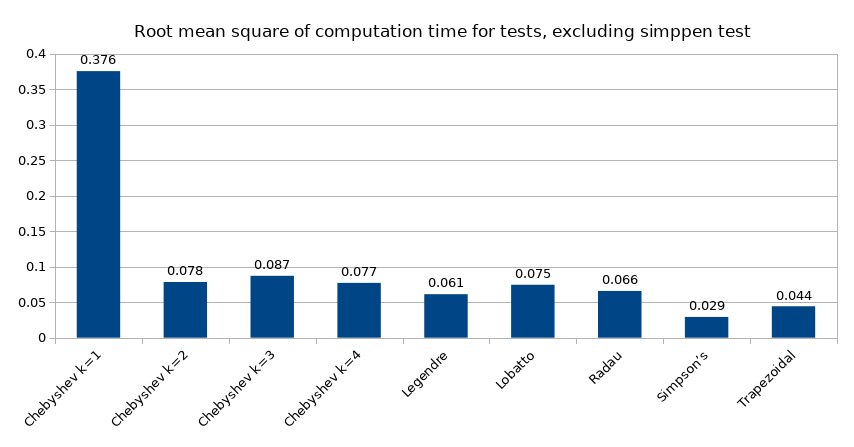
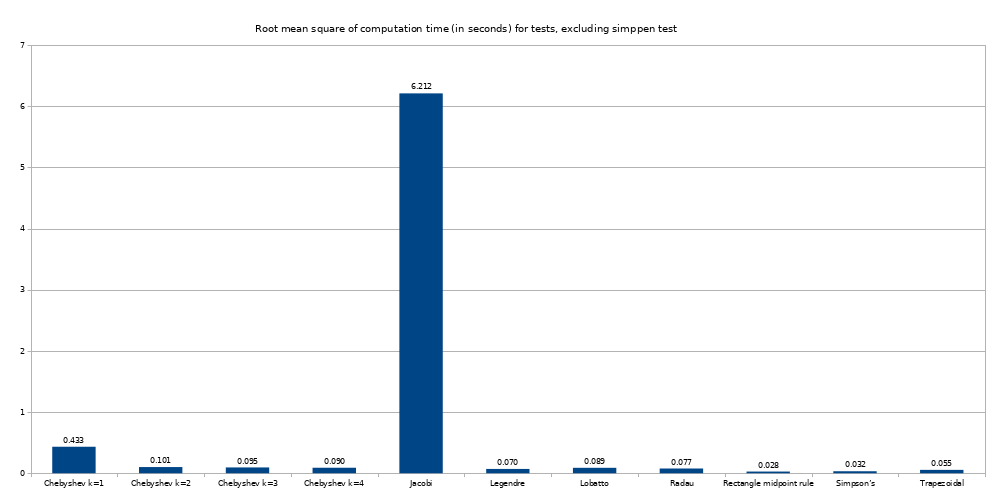
Updating to include the results of the latest Travis tests

Changed region(s): [[0.0, 0.0291, 0.9742, 0.9888], [0.8525, 0.8725, 0.8829, 0.9016]]

diff --git a/FunctionIntegrator.md b/FunctionIntegrator.md
@@ -62,13 +62,13 @@ The [test/](https://github.com/fusion809/FunctionIntegrator.jl/tree/master/test/
 | `lobatto_quadrature`   | $[a,b]$~~~<br/>~~~$x\in[-1,1]$ | 1 | `f`, the function being integrated.~~~<br/>~~~`N`, the number of grid points.~~~<br/>~~~`a`, the start of the domain of integration.~~~<br/>~~~`b`, the end of the domain of integration. | Uses [Gauss-Lobatto quadrature](https://en.wikipedia.org/wiki/Gaussian_quadrature#Gauss%E2%80%93Lobatto_rules). This function includes, in the calculation, the values of the integrand at one of the endpoints. Consequently, if there are unremovable singularities at the endpoints, this function may fail to give an accurate result even if you adjust the endpoints slightly to avoid the singularities. |
 | `radau_quadrature`     | $[a,b]$~~~<br/>~~~$x\in[-1,1]$ | 1 | `f`, the function being integrated.~~~<br/>~~~`N`, the number of grid points.~~~<br/>~~~`a`, the start of the domain of integration.~~~<br/>~~~`b`, the end of the domain of integration. | Uses Gauss–Radau quadrature, for which there is no Wikipedia article, the best article (simplest) I could find on it are [these lecture notes](https://web.archive.org/web/20200628202423/http://www.math.hkbu.edu.hk/ICM/LecturesAndSeminars/08OctMaterials/2/Slide3.pdf). This function includes, in the calculation, the values of the function at the endpoints. Consequently, if there are unremovable singularities at either or both of the endpoints, this function will fail to give an accurate result even if you adjust the endpoints slightly to avoid the singularities. |
 | `rectangle_rule_left`  | $[a,b]$ | N/A | `f`, the function being integrated.~~~<br/>~~~`N`. $N$ is the number of grid points used in the integration.~~~<br/>~~~`a`, the start of the domain of integration.~~~<br/>~~~`b`, the end of the domain of integration. | Uses the rectangle rule, specifically the [left Riemann sum](https://en.wikipedia.org/wiki/Riemann_sum#Left_Riemann_sum). Usually this or `rectangle_rule_right` is the least accurate method. In fact, many of the tests in the FunctionIntegrator.jl repository fail to get accuracy to 7 significant figures with `rectangle_rule_left` with any practically viable value of `N`. |
-| `rectangle_rule_midpoint`  | $[a,b]$ | N/A | `f`, the function being integrated.~~~<br/>~~~`N`. $N$ is the number of grid points used in the integration.~~~<br/>~~~`a`, the start of the domain of integration.~~~<br/>~~~`b`, the end of the domain of integration. | Uses the rectangle rule, specifically the [Riemann midpoint rule](https://en.wikipedia.org/wiki/Riemann_sum#Midpoint_rule). Usually this is more accurate than `rectangle_rule_left` and `rectangle_rule_right` and sometimes rivals `trapezoidal_rule` for accuracy. |
+| `rectangle_rule_midpoint`  | $[a,b]$ | N/A | `f`, the function being integrated.~~~<br/>~~~`N`. $N$ is the number of grid points used in the integration.~~~<br/>~~~`a`, the start of the domain of integration.~~~<br/>~~~`b`, the end of the domain of integration. | Uses the rectangle rule, specifically the [Riemann midpoint rule](https://en.wikipedia.org/wiki/Riemann_sum#Midpoint_rule). Usually this is more accurate than `rectangle_rule_left` and `rectangle_rule_right` and sometimes rivals `trapezoidal_rule` for accuracy. Interestingly, going by my Travis tests it appears to be even more efficient than `simpsons_rule`. |
 | `rectangle_rule_right`  | $[a,b]$ | N/A | `f`, the function being integrated.~~~<br/>~~~`N`. $N$ is the number of grid points used in the integration.~~~<br/>~~~`a`, the start of the domain of integration.~~~<br/>~~~`b`, the end of the domain of integration. | Uses the rectangle rule, specifically the [right Riemann sum](https://en.wikipedia.org/wiki/Riemann_sum#Right_Riemann_sum). Usually this or `rectangle_rule_left` is the least accurate method. In fact, many of the tests in the FunctionIntegrator.jl repository fail to get accuracy to 7 significant figures with `rectangle_rule_right` with any practically viable value of `N`. |
-| `simpsons_rule`        | $[a,b]$ | N/A | `f`, the function being integrated.~~~<br/>~~~`N`. $N+1$ is the number of grid points, if endpoints are included.~~~<br/>~~~`a`, the start of the domain of integration.~~~<br/>~~~`b`, the end of the domain of integration. | Uses [Simpson's rule](https://en.wikipedia.org/wiki/Simpson%27s_rule). The best function to use when you are unsure which to use, provided there are no unremovable singularities within the integration domain, including the endpoints. It is the best in the sense of being, on average, the most efficient (providing the most accurate result for the least amount of computing time). |
-| `trapezoidal_rule`     | $[a,b]$ | N/A | `f`, the function being integrated.~~~<br/>~~~`N`. $N+1$ is the number of grid points, if endpoints are included.~~~<br/>~~~`a`, the start of the domain of integration.~~~<br/>~~~`b`, the end of the domain of integration. | Uses the [trapezoidal rule](https://en.wikipedia.org/wiki/Trapezoidal_rule). This is the second most efficient integration function after `simpsons_rule`. It has the same caveats. |
+| `simpsons_rule`        | $[a,b]$ | N/A | `f`, the function being integrated.~~~<br/>~~~`N`. $N+1$ is the number of grid points, if endpoints are included.~~~<br/>~~~`a`, the start of the domain of integration.~~~<br/>~~~`b`, the end of the domain of integration. | Uses [Simpson's rule](https://en.wikipedia.org/wiki/Simpson%27s_rule). It is one of the best functions to use when you are unsure which to use, provided there are no unremovable singularities within the integration domain, including the endpoints. |
+| `trapezoidal_rule`     | $[a,b]$ | N/A | `f`, the function being integrated.~~~<br/>~~~`N`. $N+1$ is the number of grid points, if endpoints are included.~~~<br/>~~~`a`, the start of the domain of integration.~~~<br/>~~~`b`, the end of the domain of integration. | Uses the [trapezoidal rule](https://en.wikipedia.org/wiki/Trapezoidal_rule). It has the same caveats as `simpsons_rule`. |
 
 **Notes**:
-1. `rectangle_rule` is not included because it failed to provide the required level of accuracy for many tests with all practically viable `N` values.
+1. `rectangle_rule_left`, `rectangle_rule_midpoint` and `rectangle_rule_right` are not included because they failed to provide the required level of accuracy for many tests with all practically viable `N` values.
 2. The $x\in[-1,1]$ refers to the quadrature nodes, which are also referred to in the weighting function column.
 
 ## Examples
